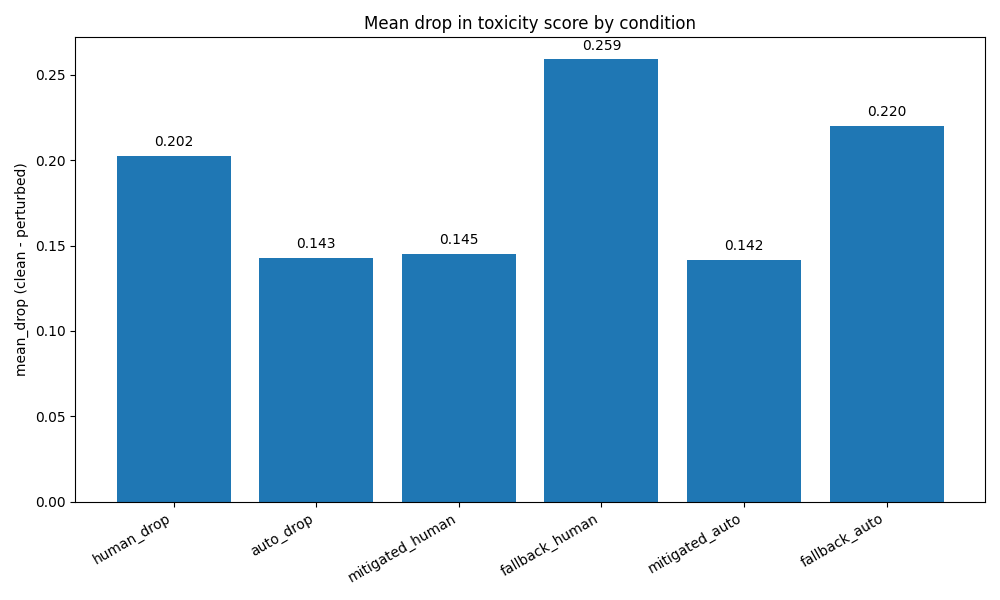
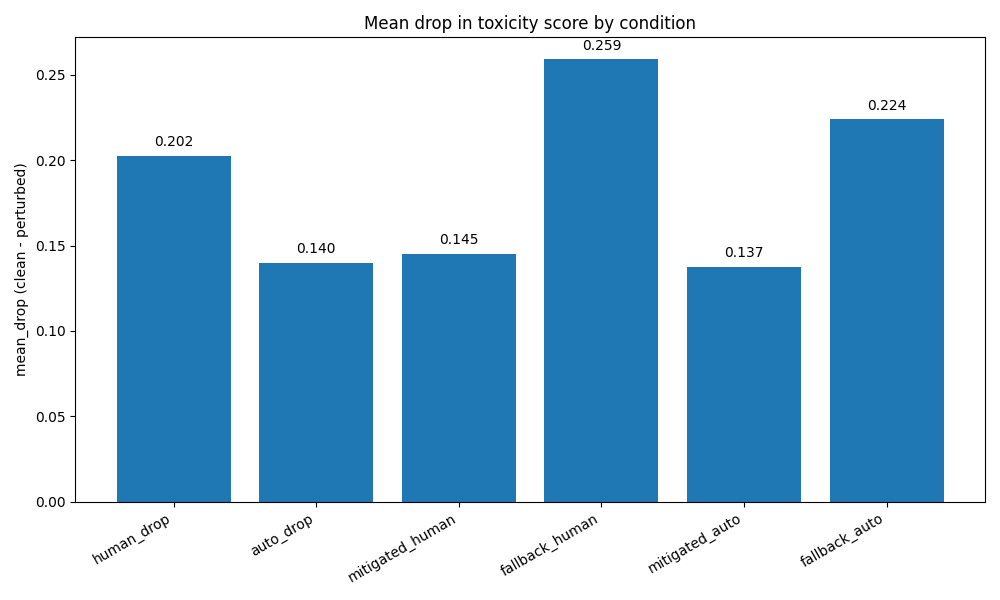
perspective api changes

Changed region(s): [[0.682, 0.39, 0.806, 0.45], [0.248, 0.39, 0.372, 0.45], [0.837, 0.15, 0.961, 0.21]]

diff --git a/run.py b/run.py
@@ -5,6 +5,7 @@ from mitigations.normalisation import normalise_text
 from mitigations.detection_fallback import detect_and_fallback
 from evaluation.results import compare_toxicity_scores
 from evaluation.visualisation import plot_comparison
+from models.perspective import evaluate_perspective  # ✅ added
 import pandas as pd
 
 def main():
@@ -15,7 +16,7 @@ def main():
     texts_clean = df["clean_version"].head(100).tolist()
     texts_human = df["perturbed_version"].head(100).tolist()
 
-    # === Step 1: Baseline evaluations ===
+    # === Step 1: Baseline (Detoxify) ===
     print("Evaluating Detoxify on clean texts...")
     clean_scores = evaluate_toxicity(texts_clean)
 
@@ -24,11 +25,10 @@ def main():
 
     print("Generating automated perturbations...")
     auto_texts = automated_perturbation(texts_clean, num_examples=100)
-    # Ensure auto_texts length matches expectation and are strings
     auto_texts = [str(t) if t is not None else "" for t in auto_texts]
     auto_scores = evaluate_toxicity(auto_texts)
 
-    # === Step 2: Mitigation strategies on HUMAN obfuscations ===
+    # === Step 2: Mitigation strategies (Detoxify) ===
     print("Applying normalisation mitigation (human)...")
     mitigated_human_texts = [normalise_text(t) for t in texts_human]
     mitigated_human_scores = evaluate_toxicity(mitigated_human_texts)
@@ -36,7 +36,6 @@ def main():
     print("Applying detection + fallback mitigation (human)...")
     fallback_human_scores = detect_and_fallback(texts_human, fallback_fn=evaluate_toxicity)
 
-    # === Step 3: Mitigation strategies on AUTOMATED obfuscations ===
     print("Applying normalisation mitigation (automated)...")
     mitigated_auto_texts = [normalise_text(t) for t in auto_texts]
     mitigated_auto_scores = evaluate_toxicity(mitigated_auto_texts)
@@ -44,18 +43,47 @@ def main():
     print("Applying detection + fallback mitigation (automated)...")
     fallback_auto_scores = detect_and_fallback(auto_texts, fallback_fn=evaluate_toxicity)
 
-    # === Step 4: Compare all results ===
-    print("Comparing results...")
+    # === Step 3: Perspective API ===
+    try:
+        print("\nEvaluating Perspective API on clean texts...")
+        persp_clean = evaluate_perspective(texts_clean)
+
+        print("Evaluating Perspective API on human perturbed texts...")
+        persp_human = evaluate_perspective(texts_human)
+
+        print("Evaluating Perspective API on automated perturbed texts...")
+        persp_auto = evaluate_perspective(auto_texts)
+
+        print("Applying normalisation mitigation (Perspective, human)...")
+        persp_human_norm = evaluate_perspective(mitigated_human_texts)
+
+        print("Applying normalisation mitigation (Perspective, auto)...")
+        persp_auto_norm = evaluate_perspective(mitigated_auto_texts)
+
+        print("\nComparing Perspective API results...")
+        persp_results = {
+            "perspective_human_drop": compare_toxicity_scores(persp_clean, persp_human),
+            "perspective_auto_drop": compare_toxicity_scores(persp_clean, persp_auto),
+            "perspective_human_norm": compare_toxicity_scores(persp_clean, persp_human_norm),
+            "perspective_auto_norm": compare_toxicity_scores(persp_clean, persp_auto_norm),
+        }
+    except Exception as e:
+        print(f"\n⚠ Skipping Perspective API analysis due to error: {e}")
+        persp_results = {}
+
+    # === Step 4: Combine results ===
+    print("\nComparing Detoxify results...")
     result_summary = {
-        # baseline drops
+        # Detoxify baselines
         "human_drop": compare_toxicity_scores(clean_scores, human_scores),
         "auto_drop": compare_toxicity_scores(clean_scores, auto_scores),
-        # human mitigations
+        # Detoxify mitigations
         "mitigated_human": compare_toxicity_scores(clean_scores, mitigated_human_scores),
         "fallback_human": compare_toxicity_scores(clean_scores, fallback_human_scores),
-        # automated mitigations
         "mitigated_auto": compare_toxicity_scores(clean_scores, mitigated_auto_scores),
         "fallback_auto": compare_toxicity_scores(clean_scores, fallback_auto_scores),
+        # Merge Perspective results
+        **persp_results
     }
 
     for k, v in result_summary.items():

diff --git a/models/perspective.py b/models/perspective.py
@@ -1,7 +1,7 @@
 import requests
 import pandas as pd
 
-API_KEY = "AIzaSyBB7A7NthFxd3Q8czAzZNh6bUCD58bkJeo"
+API_KEY = ""
 URL = "https://commentanalyzer.googleapis.com/v1alpha1/comments:analyze"
 
 def evaluate_perspective(texts):
@@ -16,3 +16,8 @@ def evaluate_perspective(texts):
         score = response['attributeScores']['TOXICITY']['summaryScore']['value']
         scores.append(score)
     return pd.DataFrame({"toxicity": scores})
+
+if __name__ == "__main__":
+    sample_texts = ["I hate you", "Have a nice day!"]
+    scores = evaluate_perspective(sample_texts)
+    print(scores)
